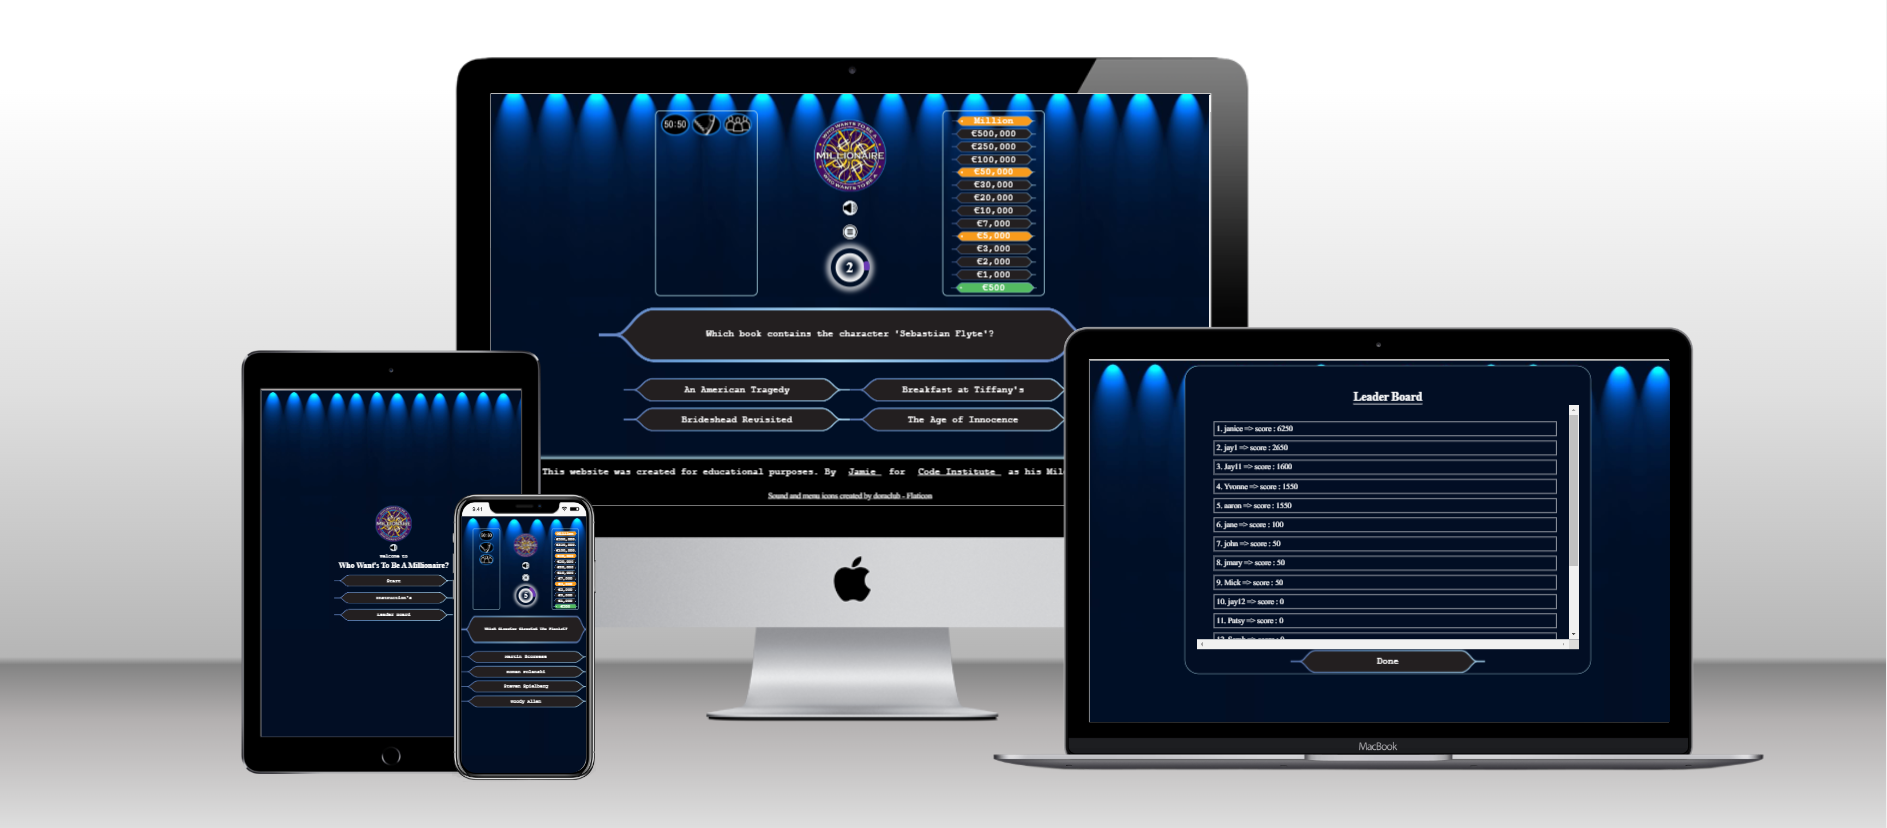
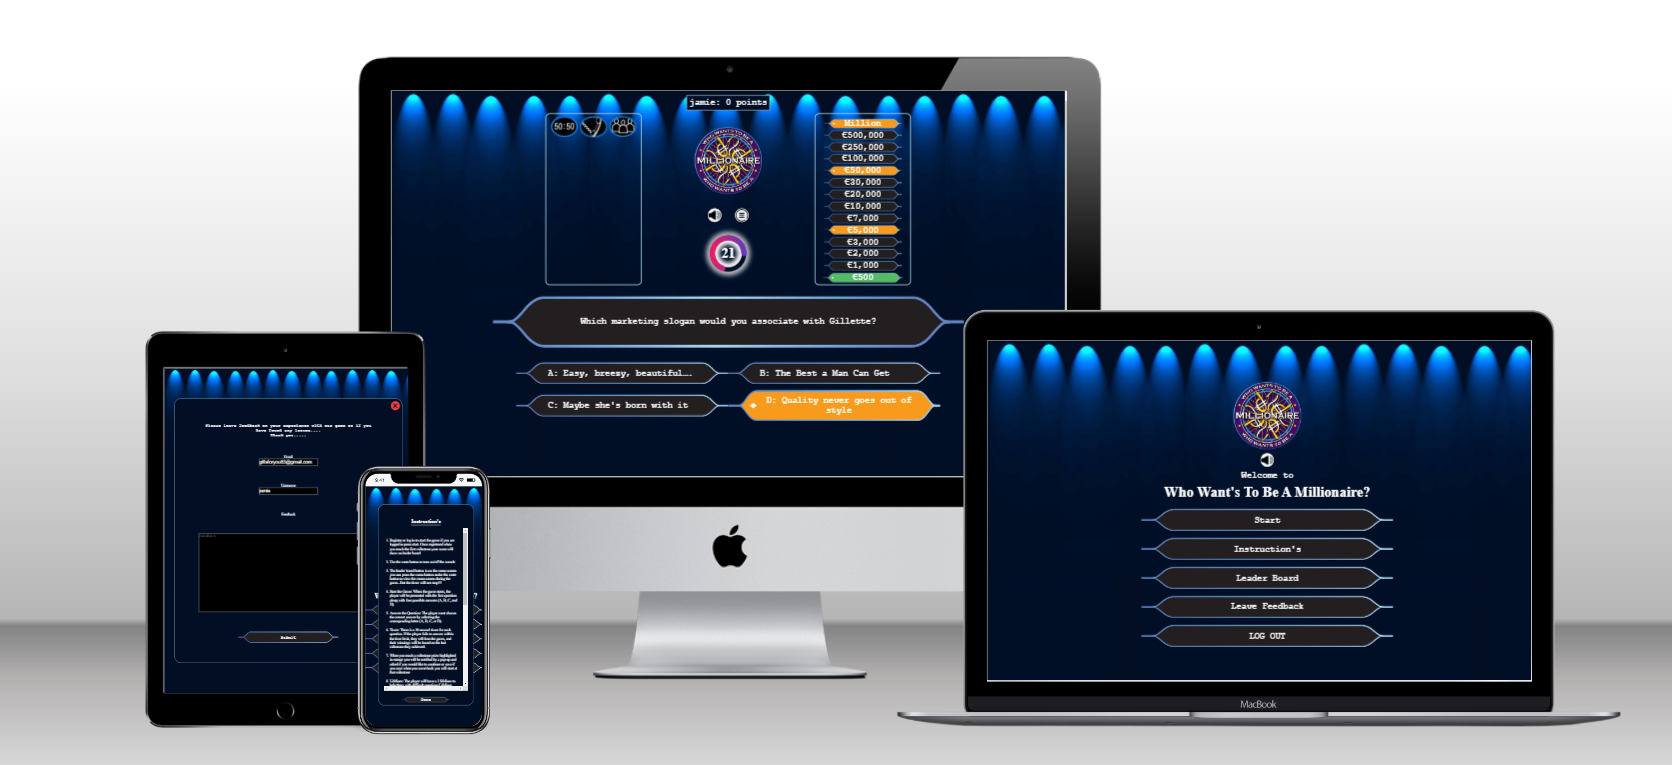
Docs: added feedback form section in readme and updated some images in readme

diff --git a/README.md b/README.md
@@ -161,14 +161,18 @@ On the menu screen, located at the top center of the page, visitors will immedia
 
 #### Welcome Overlay menu Screen/Page
   
-![Welcome Overlay Screen/Page](docs/readme_images/overlay_menu_screenshot.png)
 
 - On the main game page, you will be greeted with a captivating background featuring spotlight effects and a gradient of light to dark blue. The following essential elements are also present on this page:
-  
+
+![Welcome Overlay Screen/Page](docs/readme_images/menu-screen1.png)   ![Welcome Overlay Screen/Page](docs/readme_images/menu-screen2.png)
+
+
 - Register/Log in form
 
   - Register/Log in Form: Users can easily access the registration and login form, allowing them to participate in the game and keep track of their progress.
-  ![Get in Touch](docs/readme_images/form_screenshot.png)
+
+  ![Log in](docs/readme_images/login-screenshot.png)   ![Register](docs/readme_images/register-screenshot.png)
+
 
 - Logo 
 
@@ -186,13 +190,20 @@ On the menu screen, located at the top center of the page, visitors will immedia
 
   - Instructions Button: For newcomers or those needing a refresher, an "Instructions" button is readily available. Clicking on it will provide clear guidelines on how to play the game.
 
-  ![How to Play](docs/readme_images/instruction_screenshot.png)
+![How to Play](docs/readme_images/instruction_screenshot.png)
   
 - Leader Board
 
   - Leaderboard Button: To encourage competitiveness and track user scores, a "Leaderboard" button is provided. Players can check their standings among others who have participated in the game.
+ 
+![Leader board](docs/readme_images/leaderboard_screenshot.png)
 
-  ![How to Play](docs/readme_images/leaderboard_screenshot.png)
+- Feedback form
+
+  - Feedback form: We have a feedback form so users can notify us of any issues or complaints and let us know about there experience with the game.
+
+![Feedback form](docs/readme_images/form-screenshot.png.)
+
 
 [Back to Table of Contents](#table-of-contents)
 
@@ -281,7 +292,7 @@ These features and notifications enhance the excitement and engagement of the ga
   - On the main game page, the question and four answer choices are displayed at the bottom of the screen. When the user selects an answer by clicking on it, they will instantly receive feedback on whether their choice was correct or incorrect.
 
 ![Question and 4 answer boxs](docs/readme_images/answer_question_boxs.png)
-  
+
   - If the user's answer is correct:
 
     - They will be notified immediately that their answer is correct.
